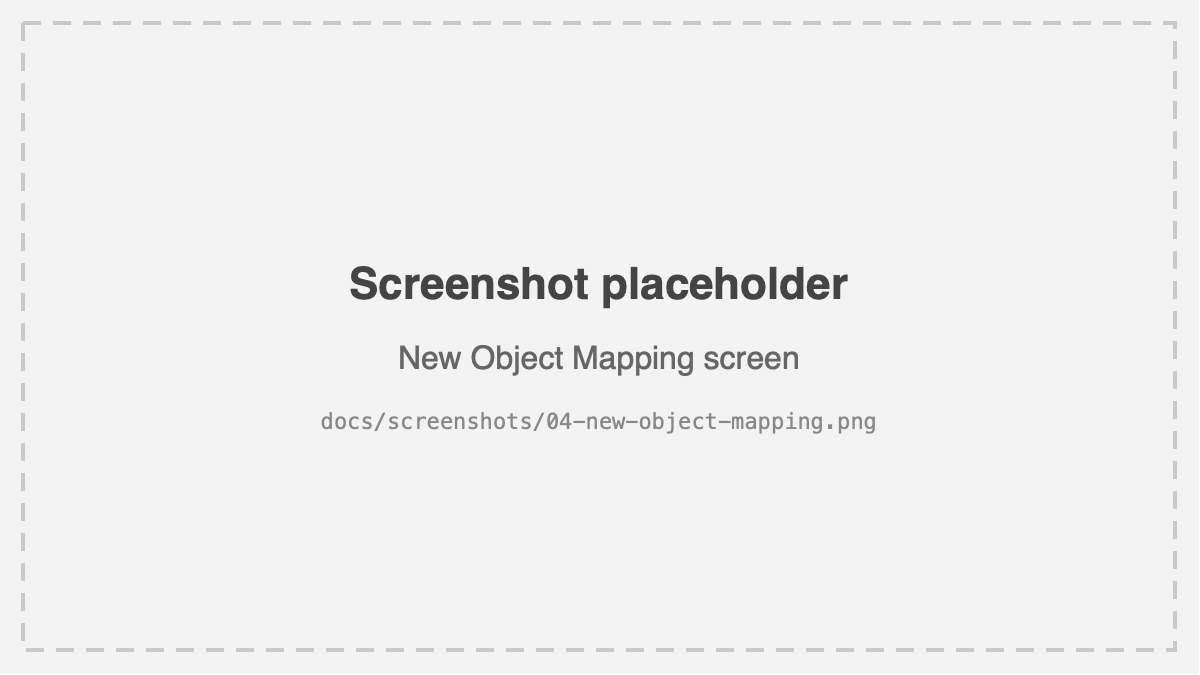
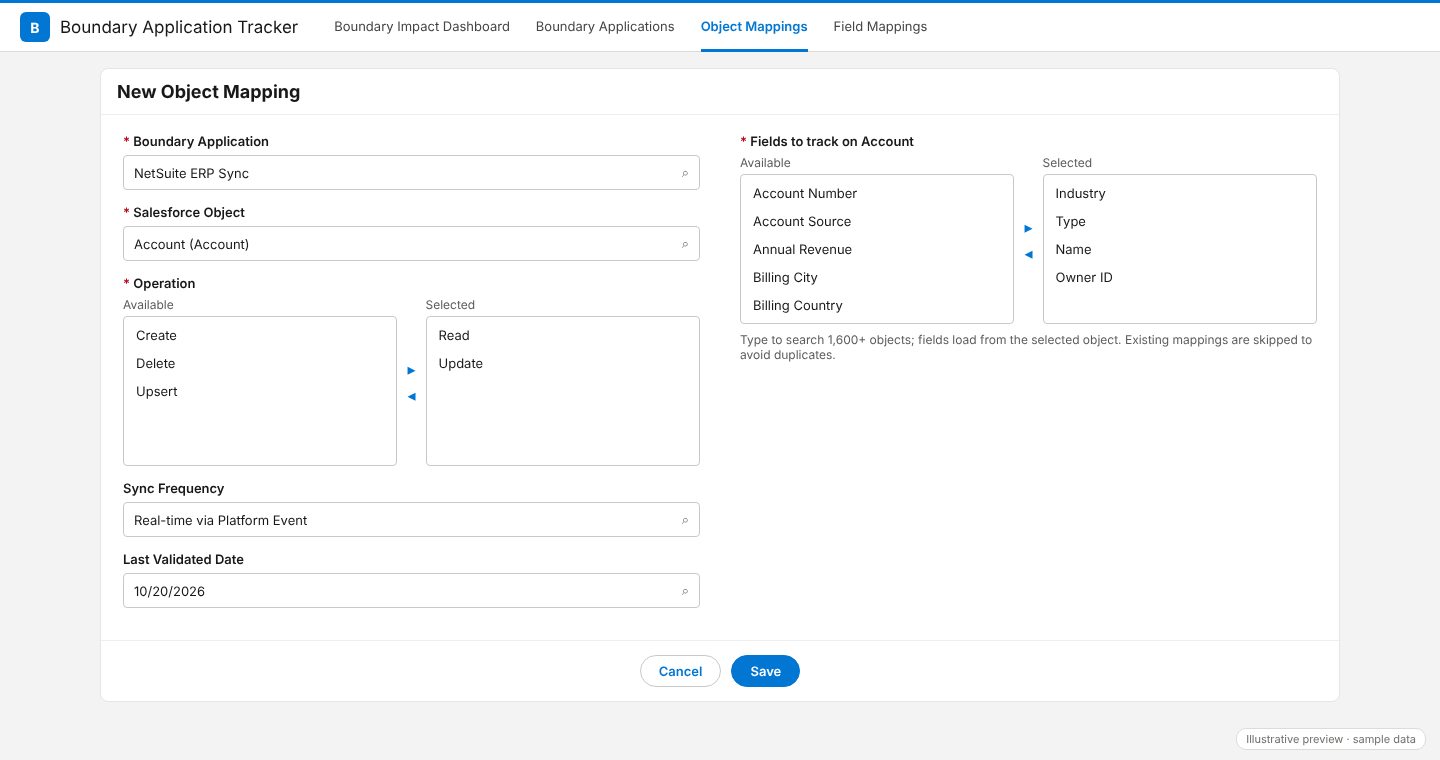
Add illustrative README screenshots
Claude-Session: https://claude.ai/code/session_01MrLjQkJtxUke9capekM8t2

diff --git a/README.md b/README.md
@@ -44,7 +44,7 @@ Boundary Application Tracker gives you one place to record which external system
 
 ## Screenshots
 
-> The images below are placeholders until real screenshots are added. Each file in [`docs/screenshots/`](docs/screenshots/) can be replaced with a real PNG of the same name.
+> Screenshots are illustrative previews using sample data, not captures from a production org. Each file in [`docs/screenshots/`](docs/screenshots/) can be replaced with a real PNG of the same name.
 
 **Boundary Impact Dashboard.** The network graph (left) puts the selected object at the center, with connected applications colored by criticality and edges styled by data direction. The impact panel (right) lists the same applications with owners, sync frequency and last-validated date.
 
